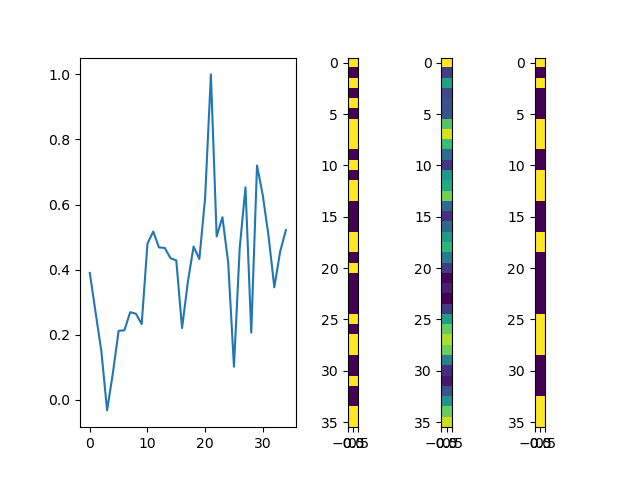
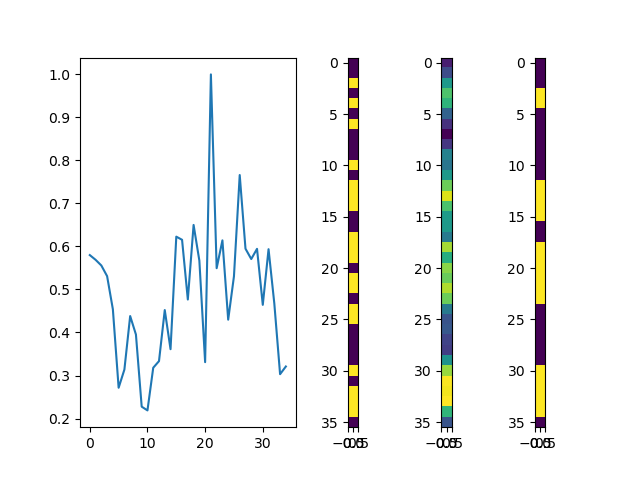
updates

diff --git a/1d/peaks_to_slot/constant_power/peaks_to_slots_model.py b/1d/peaks_to_slot/constant_power/peaks_to_slots_model.py
@@ -15,41 +15,30 @@ class LWAPredictionModel(tf.keras.Model):
         self.dense_layers = tf.keras.Sequential()
         # self.dense_layers.add(Dense(1000, activation = 'relu'))
         # self.dense_layers.add(Dense(800, activation = 'relu'))
-        self.dense_layers.add(Dense(1000))
+        self.dense_layers.add(Dense(2000))
         # self.dense_layers.add(ReLU())
         self.dense_layers.add(LeakyReLU(0.1))
         self.dense_layers.add(Dropout(0.1))
-        self.dense_layers.add(Dense(1000))
+        self.dense_layers.add(Dense(2000))
         self.dense_layers.add(LeakyReLU(0.1))
         self.dense_layers.add(Dropout(0.1))
         # self.dense_layers.add(ReLU())
-        self.dense_layers.add(Dense(1000))
+        self.dense_layers.add(Dense(2000))
         self.dense_layers.add(LeakyReLU(0.1))
         self.dense_layers.add(Dropout(0.1))
         # self.dense_layers.add(ReLU())
-        self.dense_layers.add(Dense(1000))
+        self.dense_layers.add(Dense(2000))
         self.dense_layers.add(LeakyReLU(0.1))
         self.dense_layers.add(Dropout(0.1))
         # self.dense_layers.add(ReLU())
-        self.dense_layers.add(Dense(1000))
+        self.dense_layers.add(Dense(2000))
         self.dense_layers.add(LeakyReLU(0.1))
         self.dense_layers.add(Dropout(0.1))
         # self.dense_layers.add(ReLU())
-        self.dense_layers.add(Dense(1000))
+        self.dense_layers.add(Dense(2000))
         self.dense_layers.add(LeakyReLU(0.1))
         self.dense_layers.add(Dropout(0.1))
-        # self.dense_layers.add(ReLU())
-        # self.dense_layers.add(LeakyReLU(0.2))
-        # self.dense_layers.add(Dense(2000))
-        # # self.dense_layers.add(ReLU())
-        # self.dense_layers.add(LeakyReLU(0.2))
-        # self.dense_layers.add(Dense(2000))
-        # # self.dense_layers.add(ReLU())
-        # self.dense_layers.add(LeakyReLU(0.2))
-        # self.dense_layers.add(Conv1DTranspose(256, 3, 1, 'same',activation='relu'))
-        # self.dense_layers.add(Conv1DTranspose(128, 4, 3, 'same',activation='relu'))
-        # self.dense_layers.add(Conv1DTranspose(64, 5, 1, 'same',activation='relu'))
-        # self.dense_layers.add(Conv1DTranspose(1, 6, 2, 'same', activation = 'sigmoid'))
+
         self.dense_layers.add(Dense(36,activation='sigmoid'))
 
     def call(self, input):
@@ -91,7 +80,7 @@ class LWAPredictionModel(tf.keras.Model):
         pred_pooled_2 = tf.nn.pool(pred_pooled,(2,),'AVG',(2,))
         true_pooled_2 = tf.nn.pool(true_pooled,(2,),'AVG',(2,))
 
-        return bce(true,prediction) + 0.5*bce_exp(true_pooled, pred_pooled) + (0.25*bce_exp2(true_pooled_2, pred_pooled_2))
+        return bce(true,prediction) + 0.5*bce_exp(true_pooled, pred_pooled) + (0*bce_exp2(true_pooled_2, pred_pooled_2))
         # return bce(true,prediction)
 
     def accuracy(self, prediction, true):
